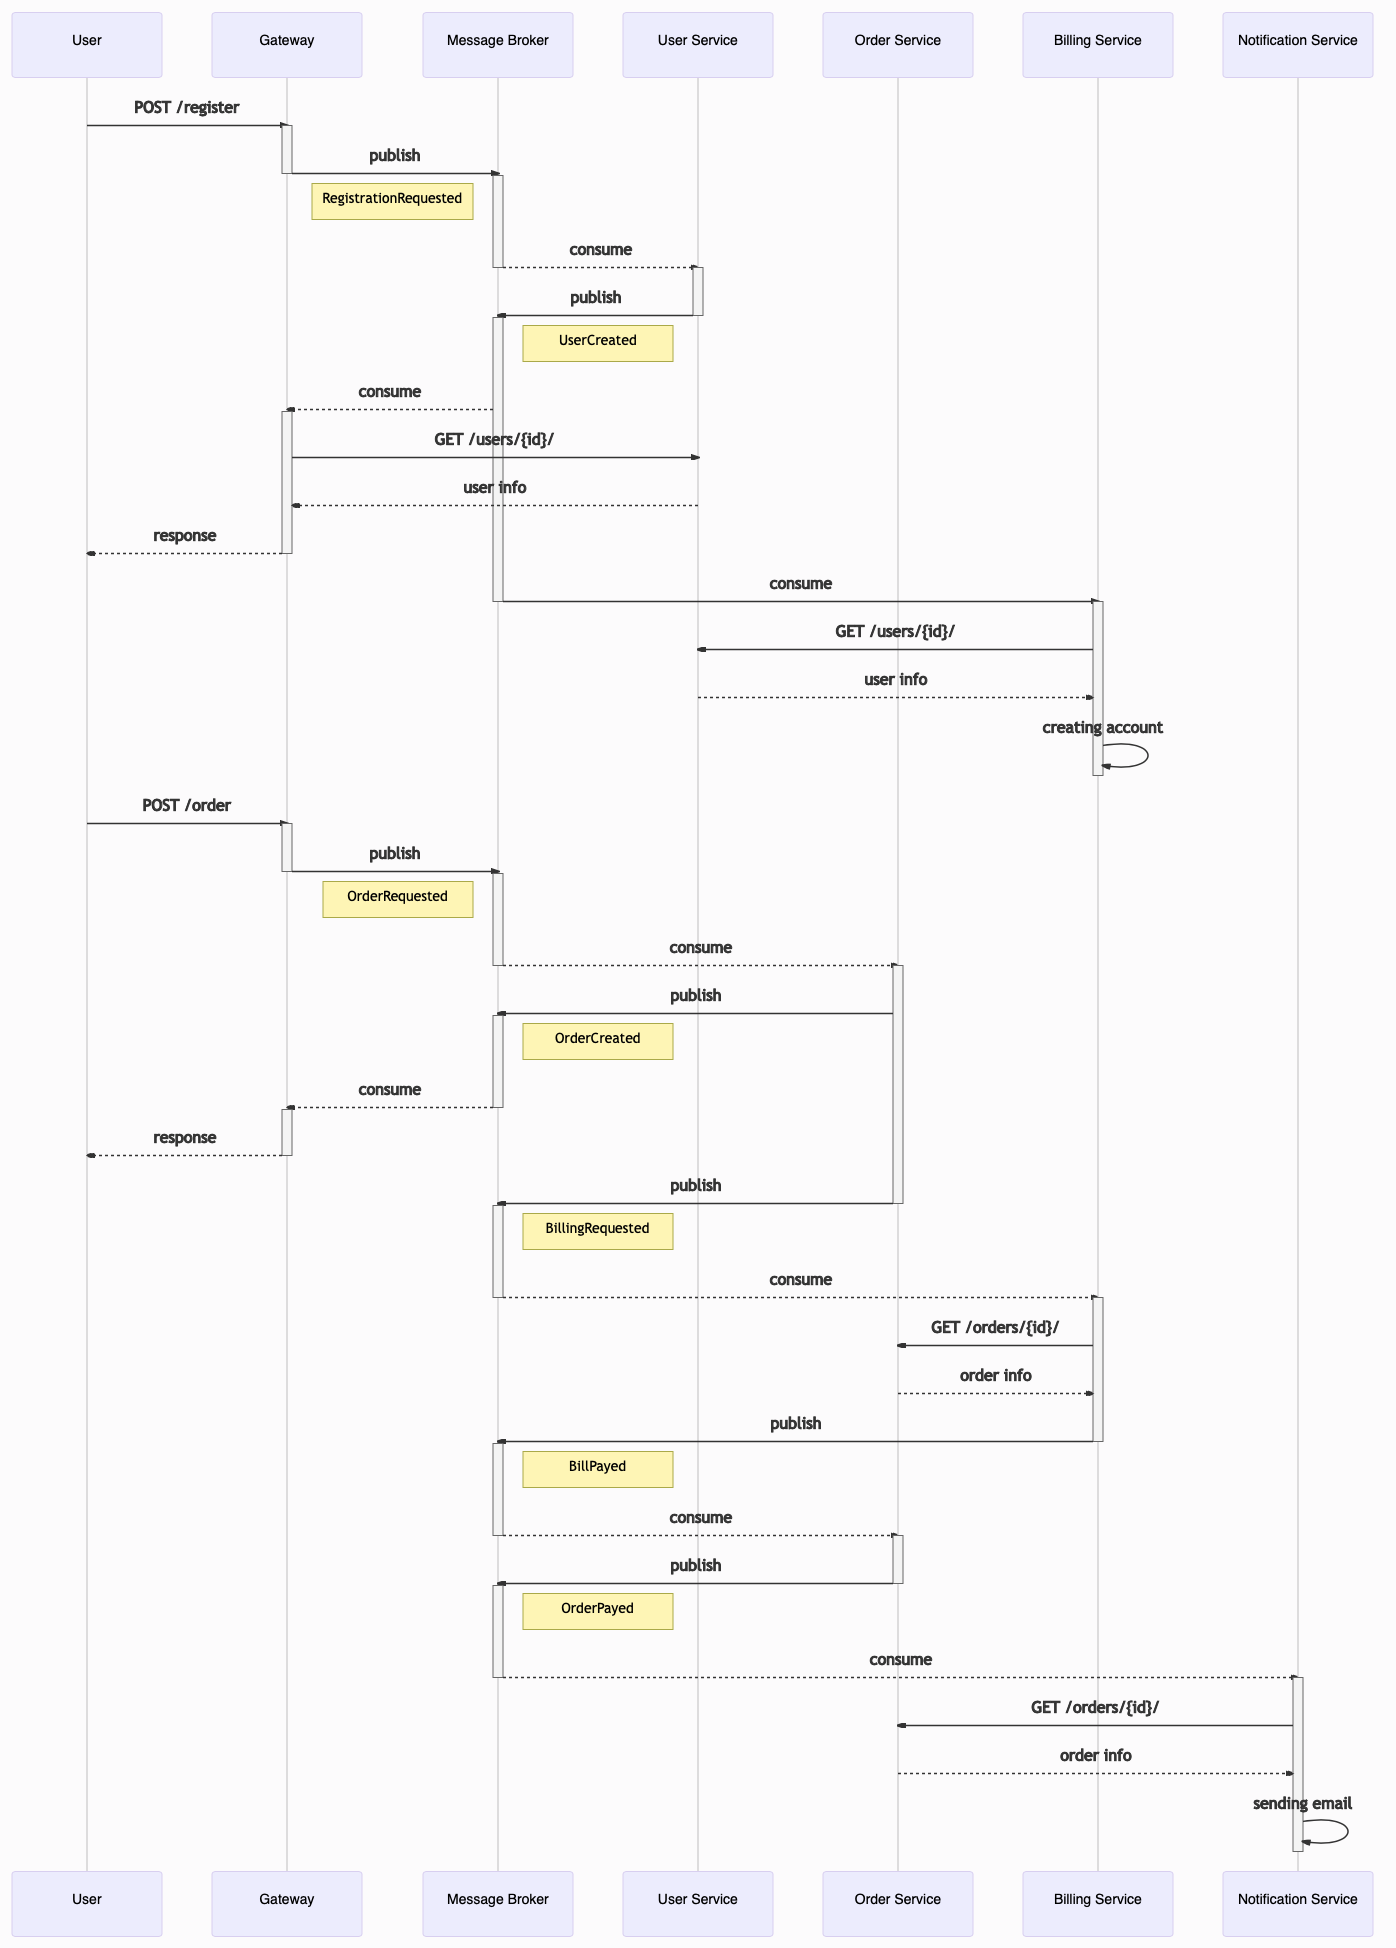
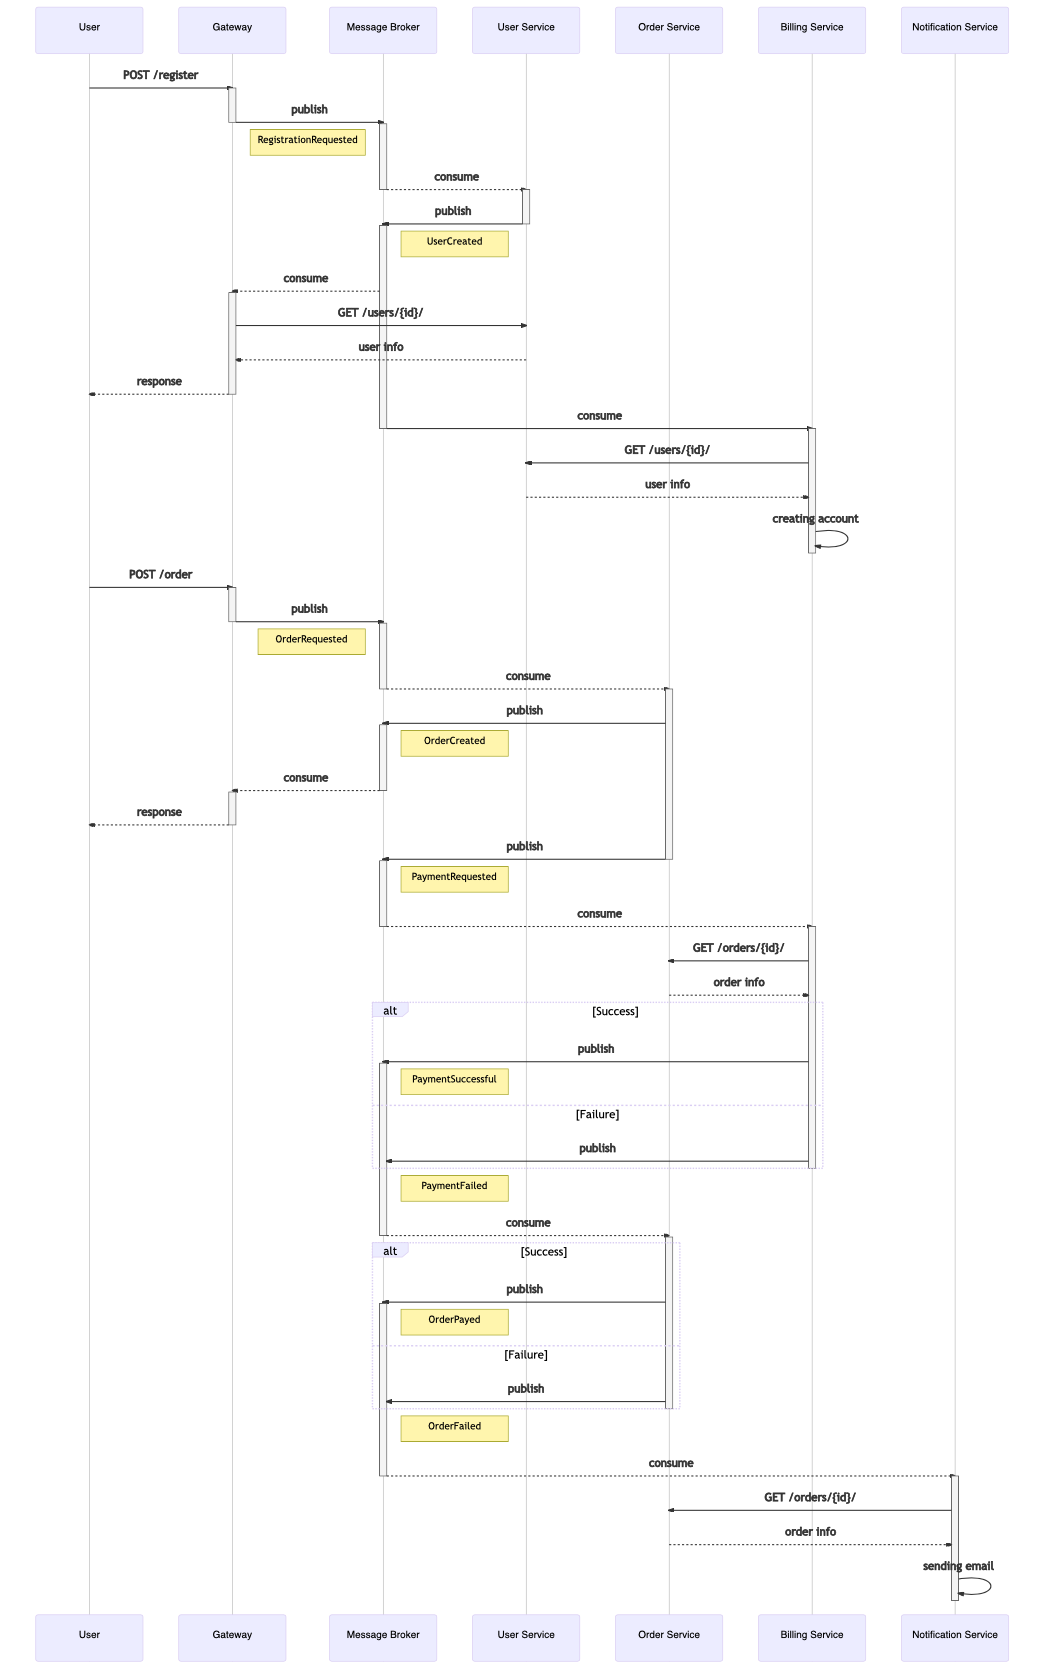
event notification fix

diff --git a/15/Event notifications/scheme.md b/15/Event notifications/scheme.md
@@ -55,23 +55,33 @@ deactivate Gateway
 Order Service->>Message Broker: publish
 deactivate Order Service
 activate Message Broker
-Note right of Message Broker: BillingRequested
+Note right of Message Broker: PaymentRequested
 Message Broker-->>Billing Service: consume
 deactivate Message Broker
 activate Billing Service
 Billing Service->>Order Service: GET /orders/{id}/
 Order Service-->>Billing Service: order info
+alt Success
 Billing Service->>Message Broker: publish
-deactivate Billing Service
 activate Message Broker
-Note right of Message Broker: BillPayed
+Note right of Message Broker: PaymentSuccessful
+else Failure
+Billing Service->>Message Broker: publish
+end
+deactivate Billing Service
+Note right of Message Broker: PaymentFailed
 Message Broker-->>Order Service: consume
 deactivate Message Broker
 activate Order Service
+alt Success
 Order Service->>Message Broker: publish
-deactivate Order Service
 activate Message Broker
 Note right of Message Broker: OrderPayed
+else Failure
+Order Service->>Message Broker: publish
+end
+deactivate Order Service
+Note right of Message Broker: OrderFailed
 Message Broker-->>Notification Service: consume
 deactivate Message Broker
 activate Notification Service
@@ -79,4 +89,3 @@ Notification Service->>Order Service: GET /orders/{id}/
 Order Service-->>Notification Service: order info
 Notification Service ->> Notification Service: sending email
 deactivate Notification Service
-
